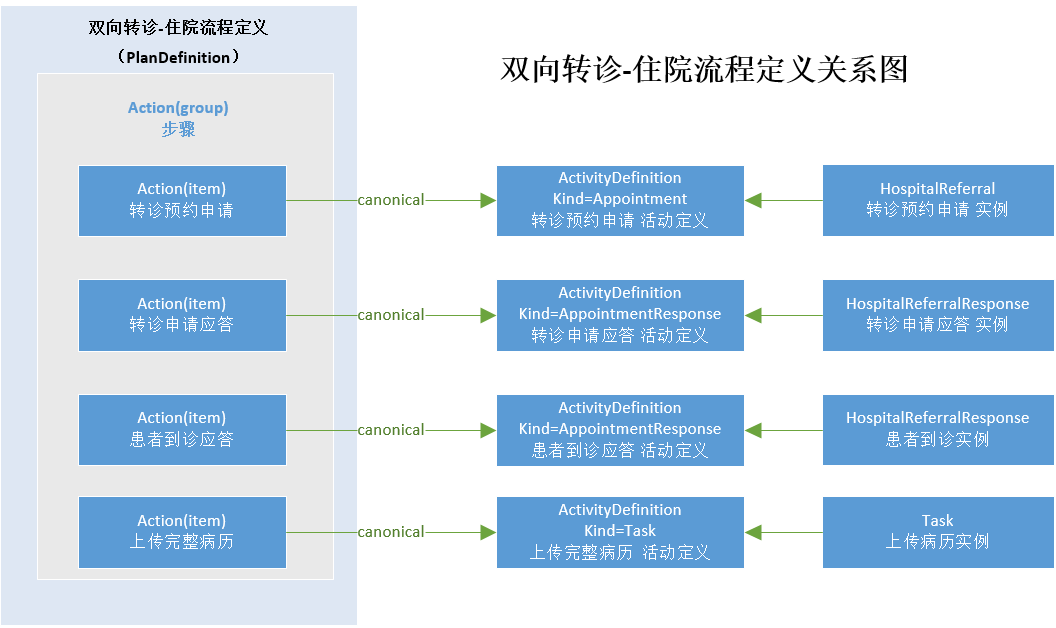
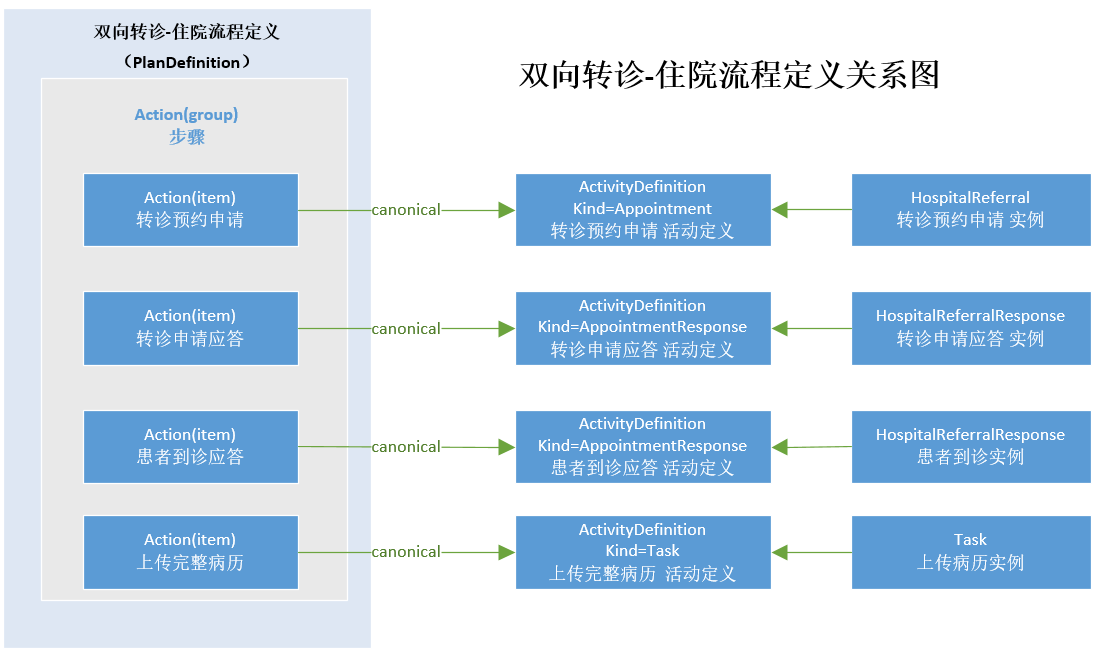
test

diff --git a/input/pagecontent/hospital-referral.md b/input/pagecontent/hospital-referral.md
@@ -5,14 +5,35 @@
 &emsp;&emsp;医生根据患者个人意愿并综合患者病情、转入医院学科特长和床位占用情况等信息发送转诊预约申请请求，经转入医院医生审核确认同意后反馈转出医院，告知患者，同步传送电子病历、检查检验结果信息和（或）电子健康档案信息，患者到诊后，回传患者到诊消息通知。主要业务过程包括床位信息查询、转诊预约申请提交、申请审核与确认、审核应答、履约情况确认、病历上传等。
 
 
-## FHIR资源应用
+## 双线转诊流-住院 流程定义
 
-> 在本场景中主要使用到以下资源：
-
-### 业务资源  
 
 >关系图如下：
-![业务类图](Class.png)
+![流程定义](..\images/PlanDefinition-ActivityDefinition-Task-Relationship.png)
+  
+1.	先定义流程中的步骤，该流程分为四个步骤，使用[ActivityDefinition](http://hl7.org/fhir/r4/activitydefinition.html)资源进行定义。
+具体定义如下：
+- [转诊预约申请-ActivityDefinition定义](https://build.fhir.org/ig/karldavids/CN-Public-Health-Core-R4/ActivityDefinition-ActivityDefinition-application-for-referral-appointment.html)
+- [转诊预约应答-ActivityDefinition定义](https://build.fhir.org/ig/karldavids/CN-Public-Health-Core-R4/ActivityDefinition-ActivityDefinition-application-for-referral-appointment-response.html)
+- [患者到诊应答-ActivityDefinition定义](https://build.fhir.org/ig/karldavids/CN-Public-Health-Core-R4/ActivityDefinition-ActivityDefinition-patient-arrive-response.html)
+- [上传完整病历-ActivityDefinition定义](https://build.fhir.org/ig/karldavids/CN-Public-Health-Core-R4/ActivityDefinition-ActivityDefinition-medical-records-submitted.html)
+
+2.	使用[PlanDefinition](http://hl7.org/fhir/r4/plandefinition.html)资源进行定义整个转向转诊-住院的业务流程，[PlanDefinition](http://hl7.org/fhir/r4/plandefinition.html)资源中包含Action节点，改节点为0..*定义，可以组装多个步骤。每个Action使用 [ActivityDefinition](http://hl7.org/fhir/r4/activitydefinition.html)定义的步骤进行关联。
+3.	流程开始后，每次实例化具体的资源对应 [ActivityDefinition](http://hl7.org/fhir/r4/activitydefinition.html)定义的步骤，具体资源示例如下：
+
+- [转诊预约申请示例](https://build.fhir.org/ig/karldavids/CN-Public-Health-Core-R4/Appointment-HospitalReferral-example.html)
+- [转诊预约应答示例](https://build.fhir.org/ig/karldavids/CN-Public-Health-Core-R4/AppointmentResponse-HospitalReferralResponse-example.html)
+- [患者到诊应答示例](https://build.fhir.org/ig/karldavids/CN-Public-Health-Core-R4/AppointmentResponse-PatientArriveResponse-example.html)
+- [上传完整病历示例](https://build.fhir.org/ig/karldavids/CN-Public-Health-Core-R4/Task-Medical-records-submitted-example.html)
+
+### 流程定义使用的资源
+- [ActivityDefinition](http://hl7.org/fhir/r4/activitydefinition.html)：活动定义资源，定义在医务流程中每一个活动，描述期在流程中的作用。
+- [PlanDefinition](http://hl7.org/fhir/r4/plandefinition.html)：活动计划资源，通过活动计划资源可以对活动定义资源进行组装，并且实现活动流程的定义，以及活动之前的先后关系，触发条件等信息，该资源可描述一个完整的业务流程。
+
+### 实际流程使用的业务资源  
+
+>关系图如下：
+![业务类图](..\images/Class.png)
 
 - [HospitalReferral](https://build.fhir.org/ig/karldavids/CN-Public-Health-Core-R4/StructureDefinition-hospital-referral.html):双向转诊预约申请资源，该资源描述医院转诊的的申请。包括上转、下转都使用该资源。
 - [HospitalReferralResponse](https://build.fhir.org/ig/karldavids/CN-Public-Health-Core-R4/StructureDefinition-hospital-referral-response.html)：双向转诊应答资源，该资源描述在提交转诊申请后，由接收方 给出是否同意的转诊应答。
@@ -23,17 +44,7 @@
 - [Department](https://build.fhir.org/ig/HL7China/CN-CORE-R4/branches/develop/StructureDefinition-Department.html)：科室/部门资源，描述医院科室/部门的基础信息。
 - [Hospital](https://build.fhir.org/ig/HL7China/CN-CORE-R4/branches/develop/StructureDefinition-Hospital.html)：医院资源，描述医疗机构（医院）的基本信息。
 - [PractitionerRole](https://build.fhir.org/ig/HL7China/CN-CORE-R4/branches/develop/StructureDefinition-PractitionerRole.html)：医护人员工作信息资源，医务人员提供医疗服务时的岗位相关信息，包括所属组织、科室、角色/岗位等。
-
-
-### 工作流资源
-
->关系图如下：
-![工作流关系图](PlanDefinition-ActivityDefinition-Task-Relationship.png)
-  
-- [ActivityDefinition](http://hl7.org/fhir/r4/activitydefinition.html)：活动定义资源，定义在医务流程中每一个活动，描述期在流程中的作用。
-- [PlanDefinition](http://hl7.org/fhir/r4/plandefinition.html)：活动计划资源，通过活动计划资源可以对活动定义资源进行组装，并且实现活动流程的定义，以及活动之前的先后关系，触发条件等信息，该资源可描述一个完整的业务流程。
-- [Task](http://hl7.org/fhir/r4/task.html)：任务资源，作为[ActivityDefinition](http://hl7.org/fhir/r4/activitydefinition.html)的实例，每次开启流程后，每一个步骤都对应一个[Task](http://hl7.org/fhir/r4/task.html)资源，作为流程步骤的附加产物，并且关联该任务执行中 产出的业务资源。
-
+- [List](http://hl7.org/fhir/r4/list.html)：集合资源，在该场景下对患者的完整病历进行打包操作。
 
 
 ## 对接方式
@@ -44,7 +55,7 @@
   
 ### 通过双转平台对接
 
-![流程图](sequence-platform.png)
+![流程图](..\images/sequence-platform.png)
 
 >转诊路程：
 
@@ -56,7 +67,7 @@
 
 ### 通过双转平台操作
 
-![流程图](sequence.png)
+![流程图](..\images/sequence.png)
 
 > 转诊流程：
 
@@ -76,7 +87,7 @@
 
 >数据传输流程图如下：
 
-![数据结构](structure-bundle.png) 
+![数据结构](..\images/structure-bundle.png) 
 
 [Bundle](http://hl7.org/fhir/r4/bundle.html)作为数据载体，[Bundle](http://hl7.org/fhir/r4/bundle.html)资源下的[Bundle.type](http://hl7.org/fhir/r4/bundle-definitions.html#Bundle.type)节点在该场景下可选择两种方式：
 - message：使用消息发送的方式传输数据，第一个资源必须为第一个资源是[MessageHeader](http://hl7.org/fhir/r4/messageheader.html)。[Bundle.type](http://hl7.org/fhir/r4/bundle-definitions.html#Bundle.type)节点为 message。
